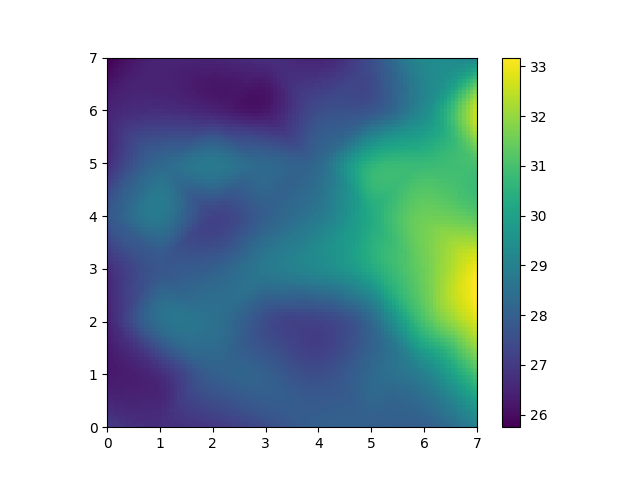
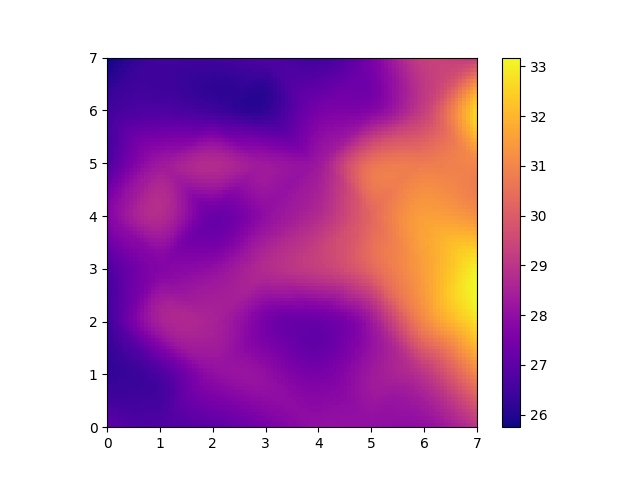
Mengubah cmap

diff --git a/main.py b/main.py
@@ -17,7 +17,7 @@ xi, yi = np.meshgrid(np.linspace(0, 7, 100), np.linspace(0, 7, 100))
 zi = griddata((x.flatten(), y.flatten()), sensor_data.flatten(), (xi, yi), method='cubic')
 
 # Create the heatmap
-plt.imshow(zi, extent=(0, 7, 0, 7), origin='lower', cmap='viridis')
+plt.imshow(zi, extent=(0, 7, 0, 7), origin='lower', cmap='plasma')
 
 # Add colorbar for reference
 plt.colorbar()
